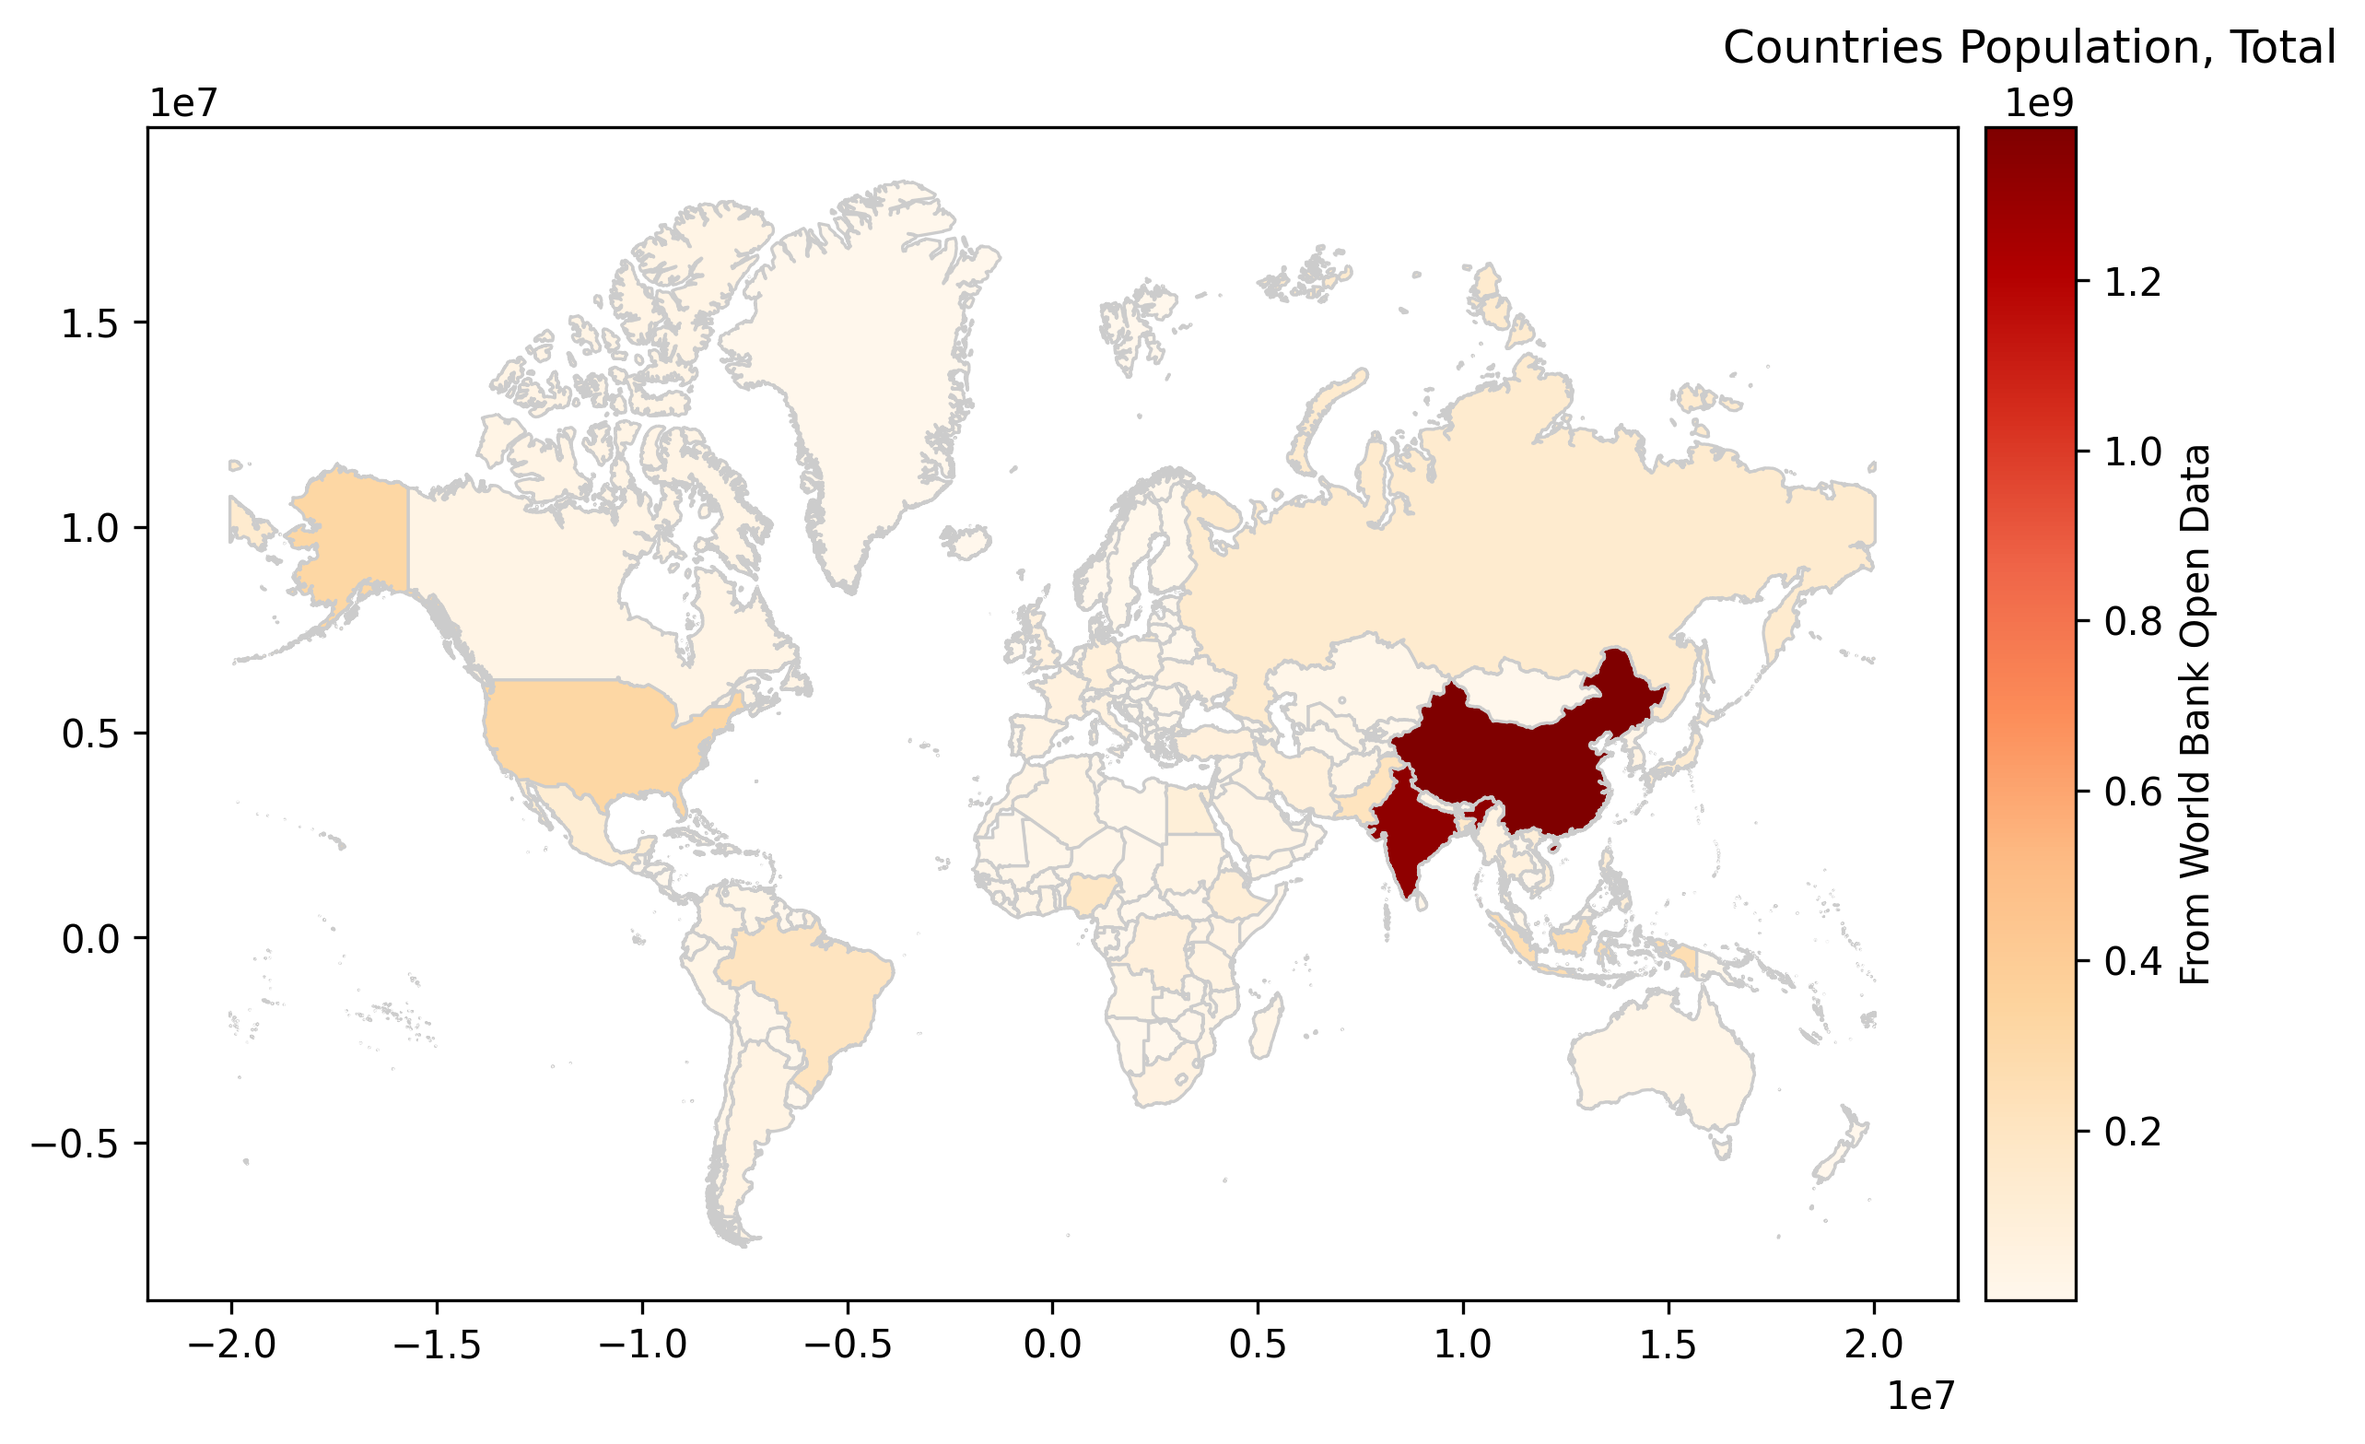
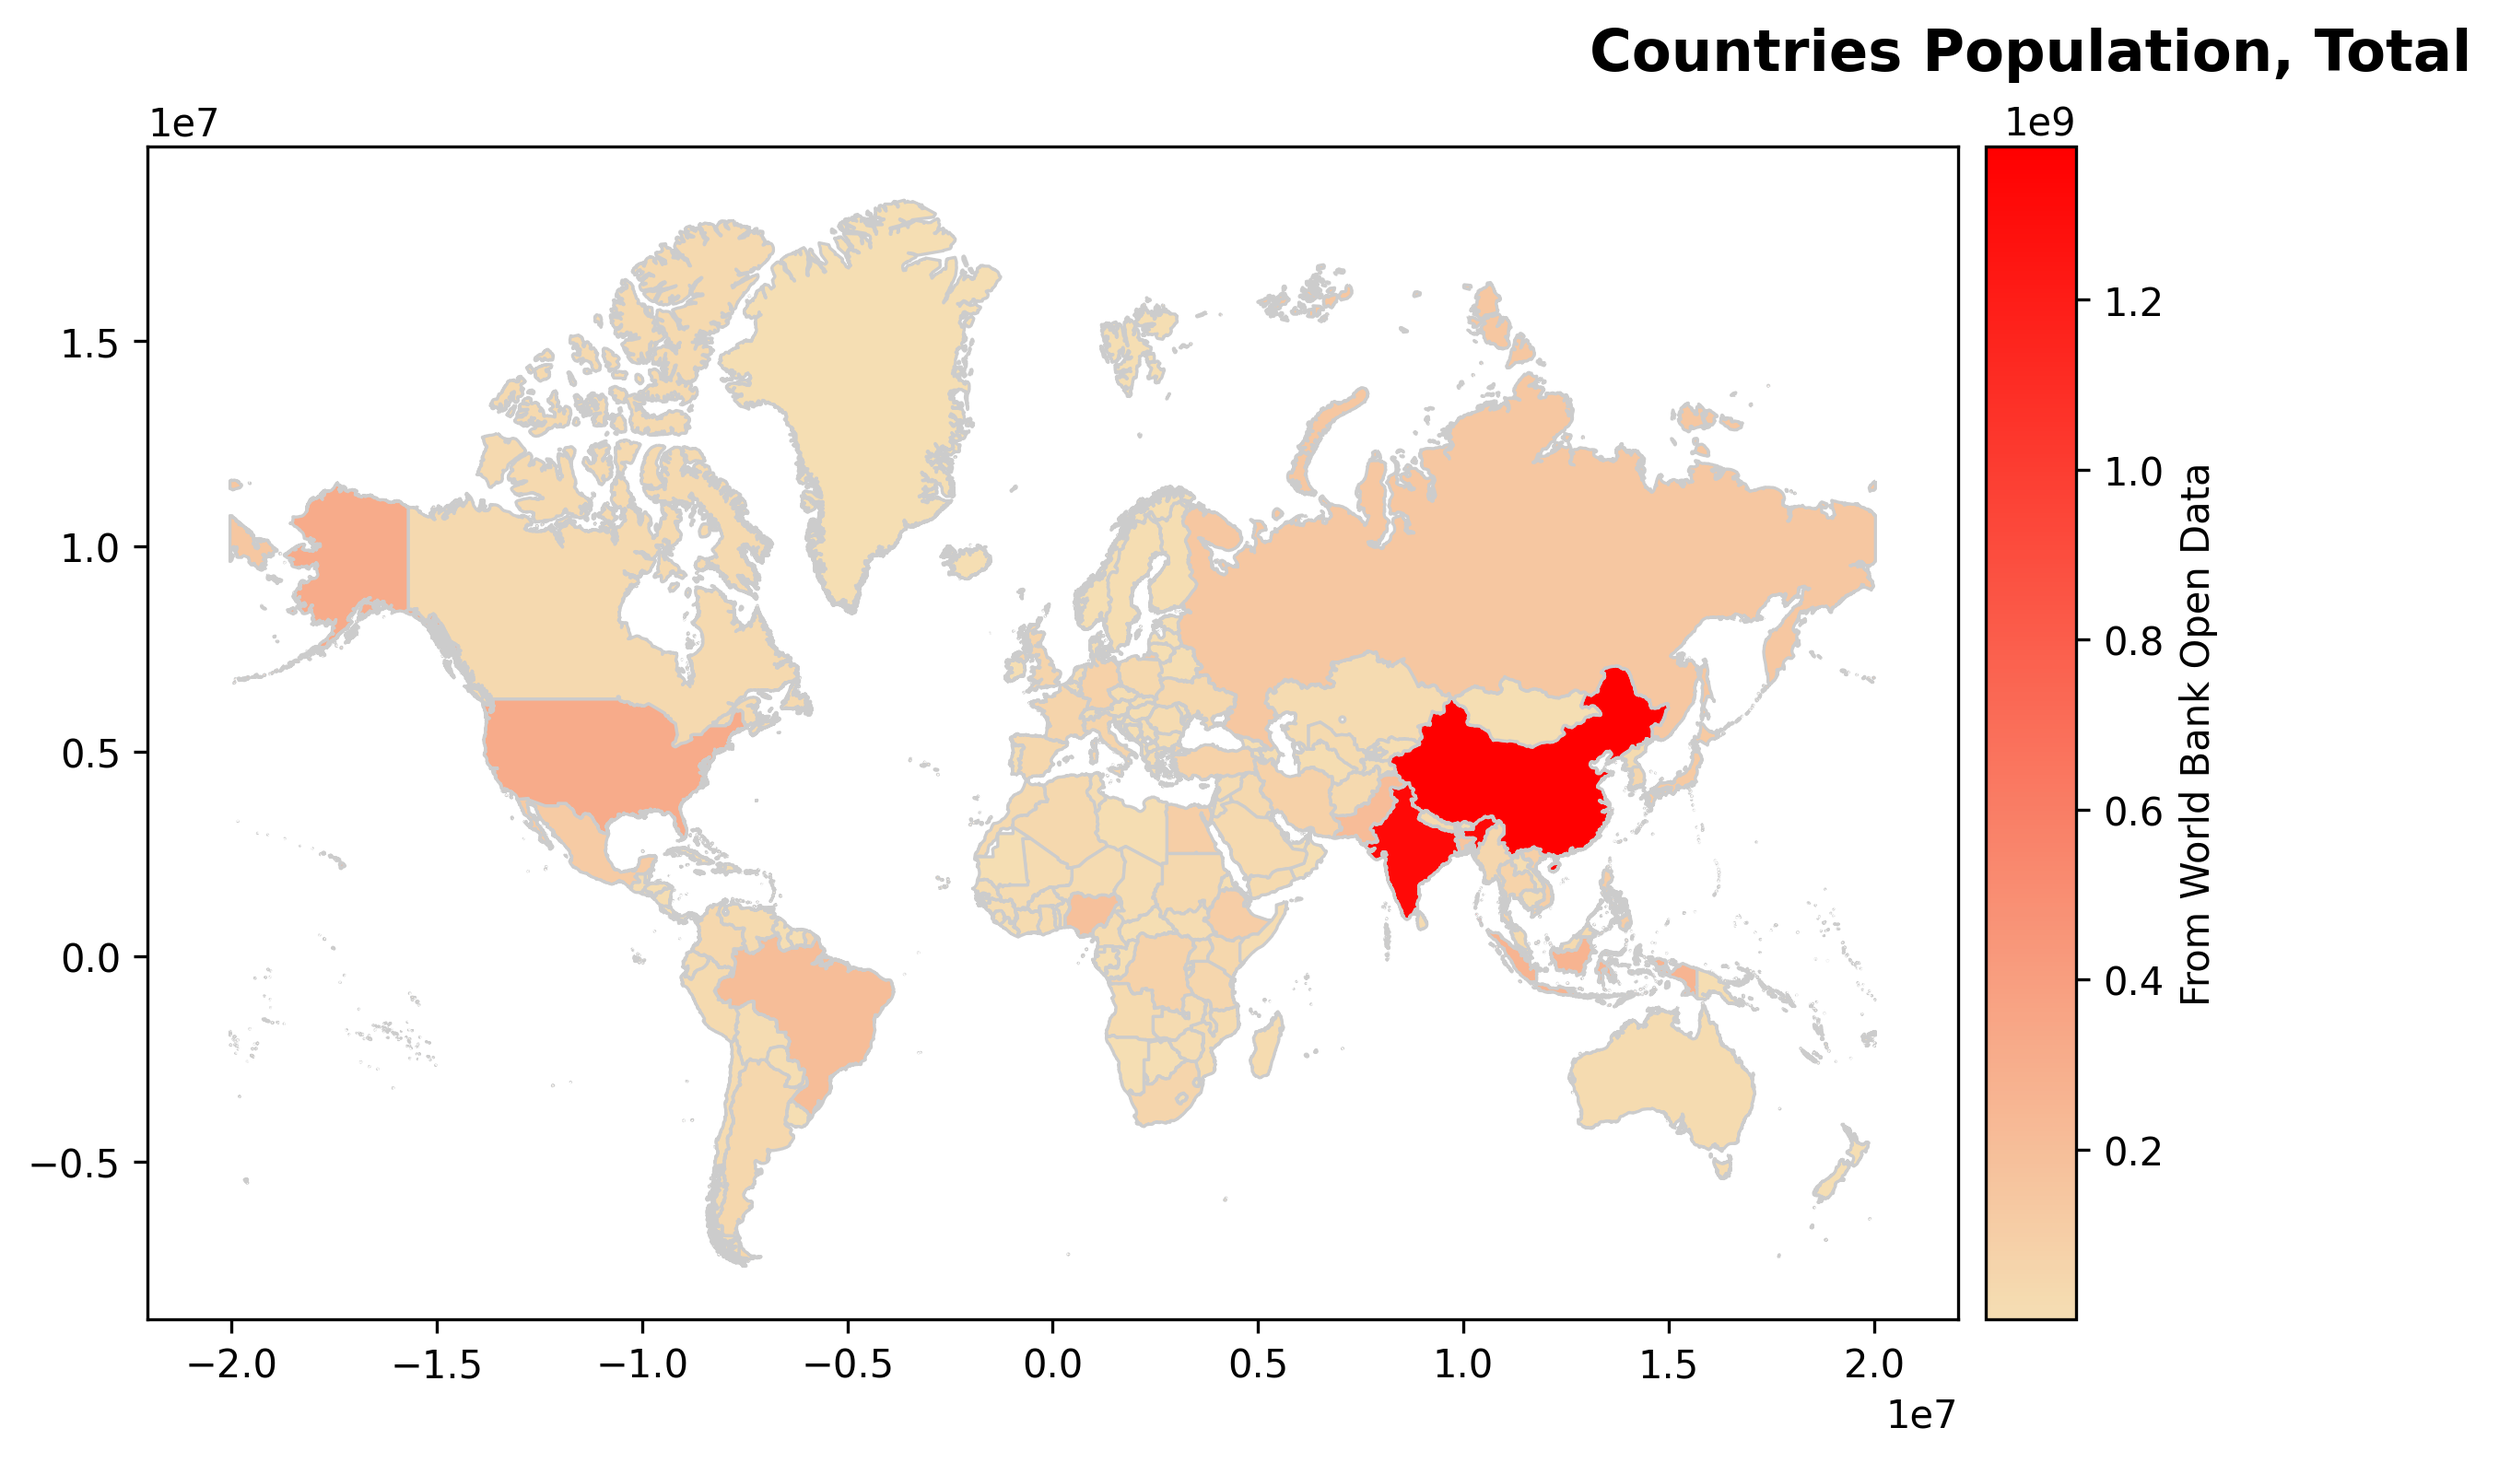
:robot: automated commit of one or many files

diff --git a/.test.ipynb.py b/.test.ipynb.py
@@ -70,6 +70,8 @@ series_code = data['serie_code']
 value_column = data['value_column']
 fig_title = data.get('fig_title')
 legend_text = data.get('legend_text')
+min_color = data.get('min_color', '#ffffff')
+max_color = data.get('max_color', '#ff0000')
 
 
 # In[ ]:
@@ -117,6 +119,23 @@ merged_gdf = world_gdf.merge(
 # In[ ]:
 
 
+from matplotlib.colors import LinearSegmentedColormap
+import numpy as np
+
+num_colors = 1000
+
+min_value = merged_gdf['value'].min()
+max_value = merged_gdf['value'].max()
+
+normalized_values = (merged_gdf['value'] - min_value) / (max_value - min_value)
+
+colors = np.array([min_color, max_color])
+cmap = LinearSegmentedColormap.from_list('custom_gradient', colors)
+
+
+# In[ ]:
+
+
 from mpl_toolkits.axes_grid1 import make_axes_locatable
 
 # Plot the map with color based on the 'value' column
@@ -126,10 +145,9 @@ cax = divider.append_axes("right", size="5%", pad=0.1)
 
 merged_gdf.to_crs(epsg=3857, inplace=True)
 
-merged_gdf.plot(column='value', cmap='OrRd', linewidth=0.8, ax=ax, edgecolor='0.8', legend=True, cax=cax, legend_kwds={'label': legend_text}, missing_kwds={'color': 'grey', "hatch": "///", 'label': 'Missing values'})
+merged_gdf.plot(column='value', cmap=cmap, linewidth=0.8, ax=ax, edgecolor='0.8', legend=True, cax=cax, legend_kwds={'label': legend_text}, missing_kwds={'color': 'grey', "hatch": "///", 'label': 'Missing values'})
 
-# Add a title
-plt.title(fig_title, fontsize=15, fontweight='bold', color='black', loc='center')
+plt.title(fig_title, fontsize=15, fontweight='bold', color='black', loc='center', pad=20, )
 
 # Save the plot as an image
 output_image_path = output_folder /'colored_map.png'
